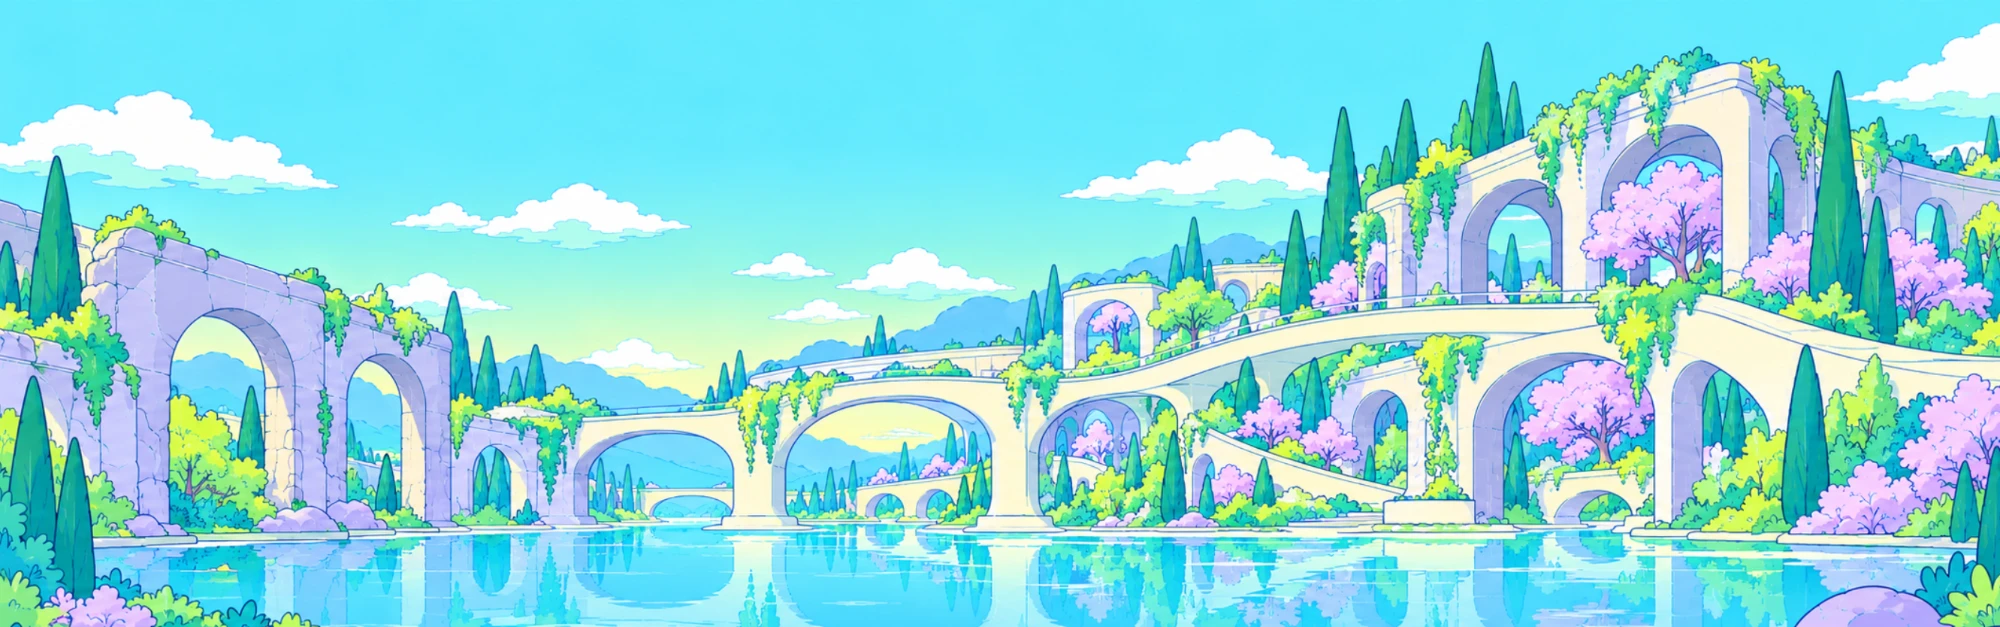
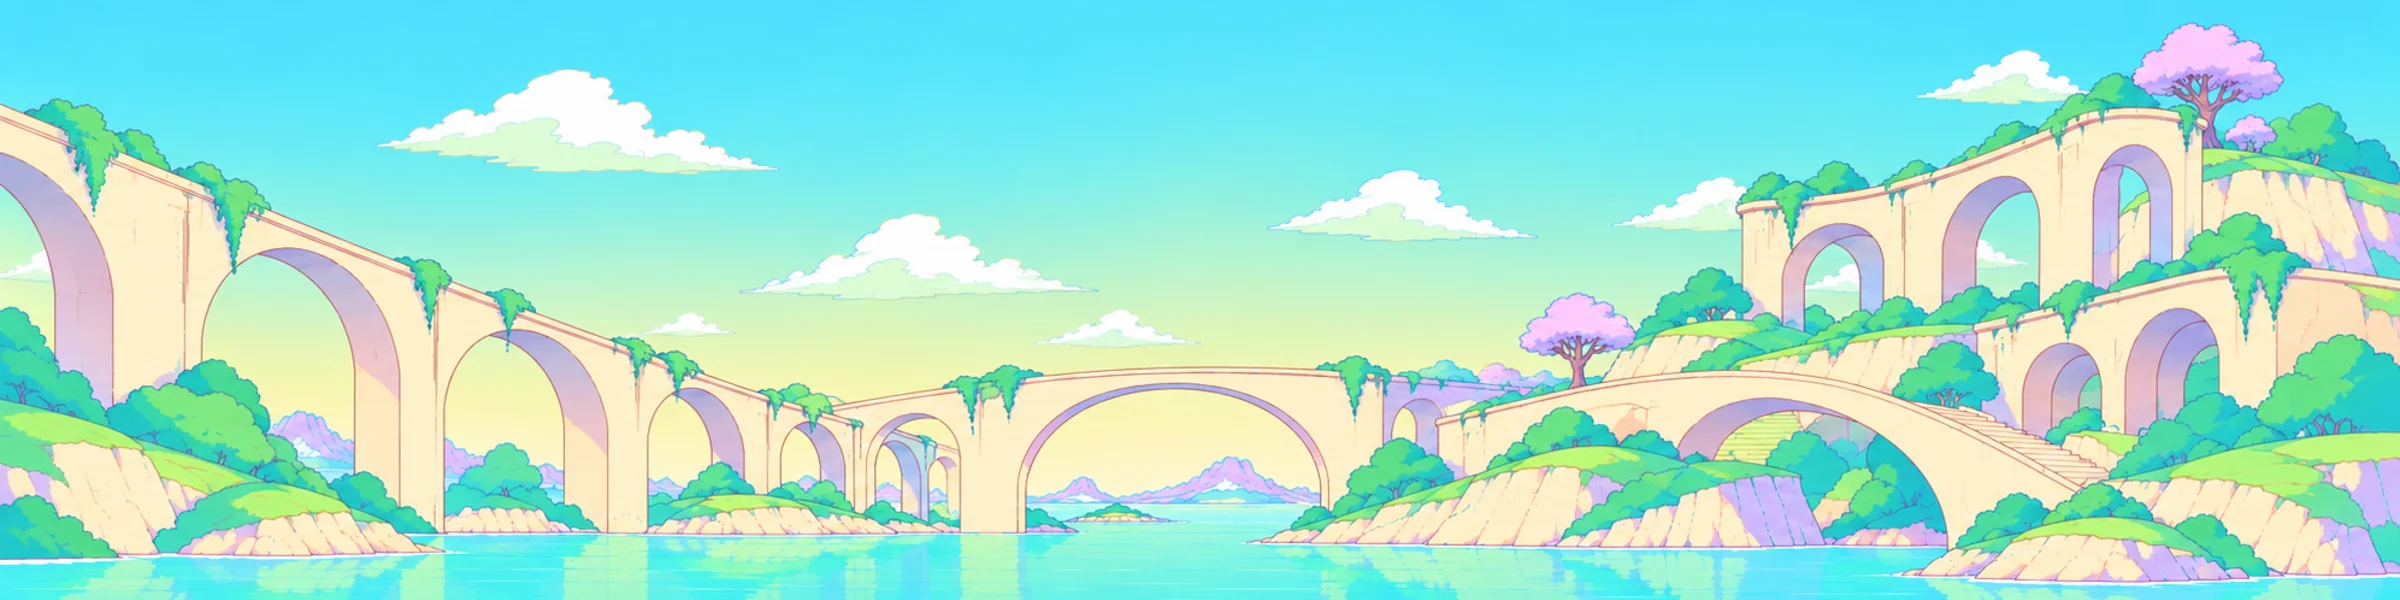
LOCAL: new contact-band background (arch bridges 2400x600)

diff --git a/site/company.html b/site/company.html
@@ -19,7 +19,7 @@
 <link rel="preconnect" href="https://fonts.googleapis.com">
 <link rel="preconnect" href="https://fonts.gstatic.com" crossorigin>
 <link rel="stylesheet" href="https://fonts.googleapis.com/css2?family=Noto+Sans+JP:wght@400;500&amp;family=Noto+Serif+JP:wght@500;600&amp;display=swap">
-<link rel="stylesheet" href="styles.css?v=1792830192">
+<link rel="stylesheet" href="styles.css?v=1792830557">
 <script>document.documentElement.classList.add('js')</script>
 
 </head>
@@ -52,7 +52,7 @@
 <div class="info-wrap reveal"><img src="images/photo_sofa.webp" alt="大きな窓のあるクリニックの待合スペース" loading="lazy" width="1536" height="1024"><dl class="info-table"><div><dt>法人名</dt><dd>一般社団法人 CELLACT</dd></div><div><dt>住所</dt><dd>〒104-0061 東京都中央区銀座6-6-5<br>HULIC &amp; New GINZA NAMIKI6 11F</dd></div><div><dt>TEL</dt><dd><a href="tel:0332890202">03-3289-0202</a></dd></div><div><dt>FAX</dt><dd>03-3289-0022</dd></div><div><dt>事業内容</dt><dd>再生医療クリニックの運営</dd></div><div><dt>クリニックHP</dt><dd><a href="https://cellact.jp/" target="_blank" rel="noopener noreferrer">https://cellact.jp/</a></dd></div><div><dt>代表理事</dt><dd>藤原彰子</dd></div></dl></div>
 <div class="map reveal"><iframe title="所在地の地図" src="https://www.google.com/maps?q=%E9%8A%80%E5%BA%A76-6-5%20HULIC%20%26%20New%20GINZA%20NAMIKI6%2011F&output=embed" loading="lazy" referrerpolicy="no-referrer-when-downgrade" allowfullscreen></iframe></div>
 </div></section><section class="section cta under">
-<div class="cta-bg" aria-hidden="true"><img src="images/band_arches.webp" alt="" loading="lazy"></div>
+<div class="cta-bg" aria-hidden="true"><img src="images/band_arches.webp?v=2" alt="" loading="lazy"></div>
 <div class="container reveal">
 <p class="eyebrow" style="color:#fff;opacity:.85">CONTACT</p>
 <h2 class="section-title">まずはお気軽にご相談ください</h2>
@@ -74,6 +74,6 @@
 <div class="copy"><span>&copy; 2026 一般社団法人 CELLACT. All rights reserved.</span></div>
 </div>
 </footer>
-<script src="script.js?v=1792830192" defer></script>
+<script src="script.js?v=1792830557" defer></script>
 </body>
 </html>

diff --git a/site/index.html b/site/index.html
@@ -19,7 +19,7 @@
 <link rel="preconnect" href="https://fonts.googleapis.com">
 <link rel="preconnect" href="https://fonts.gstatic.com" crossorigin>
 <link rel="stylesheet" href="https://fonts.googleapis.com/css2?family=Noto+Sans+JP:wght@400;500&amp;family=Noto+Serif+JP:wght@500;600&amp;display=swap">
-<link rel="stylesheet" href="styles.css?v=1792830192">
+<link rel="stylesheet" href="styles.css?v=1792830557">
 <script>document.documentElement.classList.add('js')</script>
 <script type="application/ld+json">{"@context":"https://schema.org","@type":"Organization","name":"一般社団法人 CELLACT","url":"https://n2cellact.or.jp/","logo":"https://n2cellact.or.jp/images/cellact_logo.png?v=151","telephone":"+81-3-3289-0202","email":"info@cellact.org","address":{"@type":"PostalAddress","postalCode":"104-0061","addressRegion":"東京都","addressLocality":"中央区","streetAddress":"銀座6-6-5 HULIC & New GINZA NAMIKI6 11F","addressCountry":"JP"}}</script>
 </head>
@@ -72,7 +72,7 @@
 </div></section>
 
 <section class="section cta under">
-<div class="cta-bg" aria-hidden="true"><img src="images/band_arches.webp" alt="" loading="lazy"></div>
+<div class="cta-bg" aria-hidden="true"><img src="images/band_arches.webp?v=2" alt="" loading="lazy"></div>
 <div class="container reveal">
 <p class="eyebrow" style="color:#fff;opacity:.85">CONTACT</p>
 <h2 class="section-title">まずはお気軽にご相談ください</h2>
@@ -96,6 +96,6 @@
 <div class="copy"><span>&copy; 2026 一般社団法人 CELLACT. All rights reserved.</span></div>
 </div>
 </footer>
-<script src="script.js?v=1792830192" defer></script>
+<script src="script.js?v=1792830557" defer></script>
 </body>
 </html>

diff --git a/site/business.html b/site/business.html
@@ -19,7 +19,7 @@
 <link rel="preconnect" href="https://fonts.googleapis.com">
 <link rel="preconnect" href="https://fonts.gstatic.com" crossorigin>
 <link rel="stylesheet" href="https://fonts.googleapis.com/css2?family=Noto+Sans+JP:wght@400;500&amp;family=Noto+Serif+JP:wght@500;600&amp;display=swap">
-<link rel="stylesheet" href="styles.css?v=1792830192">
+<link rel="stylesheet" href="styles.css?v=1792830557">
 <script>document.documentElement.classList.add('js')</script>
 
 </head>
@@ -48,7 +48,7 @@
 <p class="eyebrow">FOR PATIENTS</p><h2 class="section-title" style="font-size:1.4rem">治療を検討されている方へ</h2>
 <p>治療の内容やご予約については、クリニックの公式サイトをご覧ください。</p>
 <a class="btn btn-teal" href="https://cellact.jp/" target="_blank" rel="noopener noreferrer">クリニック公式サイトへ <span class="arrow" aria-hidden="true">→</span></a></div></div></section><section class="section cta under">
-<div class="cta-bg" aria-hidden="true"><img src="images/band_arches.webp" alt="" loading="lazy"></div>
+<div class="cta-bg" aria-hidden="true"><img src="images/band_arches.webp?v=2" alt="" loading="lazy"></div>
 <div class="container reveal">
 <p class="eyebrow" style="color:#fff;opacity:.85">CONTACT</p>
 <h2 class="section-title">事業に関するお問い合わせ</h2>
@@ -70,6 +70,6 @@
 <div class="copy"><span>&copy; 2026 一般社団法人 CELLACT. All rights reserved.</span></div>
 </div>
 </footer>
-<script src="script.js?v=1792830192" defer></script>
+<script src="script.js?v=1792830557" defer></script>
 </body>
 </html>

diff --git a/site/404.html b/site/404.html
@@ -19,7 +19,7 @@
 <link rel="preconnect" href="https://fonts.googleapis.com">
 <link rel="preconnect" href="https://fonts.gstatic.com" crossorigin>
 <link rel="stylesheet" href="https://fonts.googleapis.com/css2?family=Noto+Sans+JP:wght@400;500&amp;family=Noto+Serif+JP:wght@500;600&amp;display=swap">
-<link rel="stylesheet" href="styles.css?v=1792830192">
+<link rel="stylesheet" href="styles.css?v=1792830557">
 <script>document.documentElement.classList.add('js')</script>
 
 </head>
@@ -47,6 +47,6 @@
 <div class="copy"><span>&copy; 2026 一般社団法人 CELLACT. All rights reserved.</span></div>
 </div>
 </footer>
-<script src="script.js?v=1792830192" defer></script>
+<script src="script.js?v=1792830557" defer></script>
 </body>
 </html>

diff --git a/site/contact_thanks.html b/site/contact_thanks.html
@@ -19,7 +19,7 @@
 <link rel="preconnect" href="https://fonts.googleapis.com">
 <link rel="preconnect" href="https://fonts.gstatic.com" crossorigin>
 <link rel="stylesheet" href="https://fonts.googleapis.com/css2?family=Noto+Sans+JP:wght@400;500&amp;family=Noto+Serif+JP:wght@500;600&amp;display=swap">
-<link rel="stylesheet" href="styles.css?v=1792830192">
+<link rel="stylesheet" href="styles.css?v=1792830557">
 <script>document.documentElement.classList.add('js')</script>
 
 </head>
@@ -54,6 +54,6 @@
 <div class="copy"><span>&copy; 2026 一般社団法人 CELLACT. All rights reserved.</span></div>
 </div>
 </footer>
-<script src="script.js?v=1792830192" defer></script>
+<script src="script.js?v=1792830557" defer></script>
 </body>
 </html>

diff --git a/site/news-20270101-rename.html b/site/news-20270101-rename.html
@@ -19,7 +19,7 @@
 <link rel="preconnect" href="https://fonts.googleapis.com">
 <link rel="preconnect" href="https://fonts.gstatic.com" crossorigin>
 <link rel="stylesheet" href="https://fonts.googleapis.com/css2?family=Noto+Sans+JP:wght@400;500&amp;family=Noto+Serif+JP:wght@500;600&amp;display=swap">
-<link rel="stylesheet" href="styles.css?v=1792830192">
+<link rel="stylesheet" href="styles.css?v=1792830557">
 <script>document.documentElement.classList.add('js')</script>
 
 </head>
@@ -58,6 +58,6 @@
 <div class="copy"><span>&copy; 2026 一般社団法人 CELLACT. All rights reserved.</span></div>
 </div>
 </footer>
-<script src="script.js?v=1792830192" defer></script>
+<script src="script.js?v=1792830557" defer></script>
 </body>
 </html>

diff --git a/site/news-20270101-renewal.html b/site/news-20270101-renewal.html
@@ -19,7 +19,7 @@
 <link rel="preconnect" href="https://fonts.googleapis.com">
 <link rel="preconnect" href="https://fonts.gstatic.com" crossorigin>
 <link rel="stylesheet" href="https://fonts.googleapis.com/css2?family=Noto+Sans+JP:wght@400;500&amp;family=Noto+Serif+JP:wght@500;600&amp;display=swap">
-<link rel="stylesheet" href="styles.css?v=1792830192">
+<link rel="stylesheet" href="styles.css?v=1792830557">
 <script>document.documentElement.classList.add('js')</script>
 
 </head>
@@ -57,6 +57,6 @@
 <div class="copy"><span>&copy; 2026 一般社団法人 CELLACT. All rights reserved.</span></div>
 </div>
 </footer>
-<script src="script.js?v=1792830192" defer></script>
+<script src="script.js?v=1792830557" defer></script>
 </body>
 </html>

diff --git a/site/news-20270110-recruit.html b/site/news-20270110-recruit.html
@@ -19,7 +19,7 @@
 <link rel="preconnect" href="https://fonts.googleapis.com">
 <link rel="preconnect" href="https://fonts.gstatic.com" crossorigin>
 <link rel="stylesheet" href="https://fonts.googleapis.com/css2?family=Noto+Sans+JP:wght@400;500&amp;family=Noto+Serif+JP:wght@500;600&amp;display=swap">
-<link rel="stylesheet" href="styles.css?v=1792830192">
+<link rel="stylesheet" href="styles.css?v=1792830557">
 <script>document.documentElement.classList.add('js')</script>
 
 </head>
@@ -57,6 +57,6 @@
 <div class="copy"><span>&copy; 2026 一般社団法人 CELLACT. All rights reserved.</span></div>
 </div>
 </footer>
-<script src="script.js?v=1792830192" defer></script>
+<script src="script.js?v=1792830557" defer></script>
 </body>
 </html>

diff --git a/site/news-archive.html b/site/news-archive.html
@@ -19,7 +19,7 @@
 <link rel="preconnect" href="https://fonts.googleapis.com">
 <link rel="preconnect" href="https://fonts.gstatic.com" crossorigin>
 <link rel="stylesheet" href="https://fonts.googleapis.com/css2?family=Noto+Sans+JP:wght@400;500&amp;family=Noto+Serif+JP:wght@500;600&amp;display=swap">
-<link rel="stylesheet" href="styles.css?v=1792830192">
+<link rel="stylesheet" href="styles.css?v=1792830557">
 <script>document.documentElement.classList.add('js')</script>
 
 </head>
@@ -49,6 +49,6 @@
 <div class="copy"><span>&copy; 2026 一般社団法人 CELLACT. All rights reserved.</span></div>
 </div>
 </footer>
-<script src="script.js?v=1792830192" defer></script>
+<script src="script.js?v=1792830557" defer></script>
 </body>
 </html>

diff --git a/site/privacy.html b/site/privacy.html
@@ -19,7 +19,7 @@
 <link rel="preconnect" href="https://fonts.googleapis.com">
 <link rel="preconnect" href="https://fonts.gstatic.com" crossorigin>
 <link rel="stylesheet" href="https://fonts.googleapis.com/css2?family=Noto+Sans+JP:wght@400;500&amp;family=Noto+Serif+JP:wght@500;600&amp;display=swap">
-<link rel="stylesheet" href="styles.css?v=1792830192">
+<link rel="stylesheet" href="styles.css?v=1792830557">
 <script>document.documentElement.classList.add('js')</script>
 
 </head>
@@ -71,6 +71,6 @@
 <div class="copy"><span>&copy; 2026 一般社団法人 CELLACT. All rights reserved.</span></div>
 </div>
 </footer>
-<script src="script.js?v=1792830192" defer></script>
+<script src="script.js?v=1792830557" defer></script>
 </body>
 </html>

diff --git a/site/recruit.html b/site/recruit.html
@@ -19,7 +19,7 @@
 <link rel="preconnect" href="https://fonts.googleapis.com">
 <link rel="preconnect" href="https://fonts.gstatic.com" crossorigin>
 <link rel="stylesheet" href="https://fonts.googleapis.com/css2?family=Noto+Sans+JP:wght@400;500&amp;family=Noto+Serif+JP:wght@500;600&amp;display=swap">
-<link rel="stylesheet" href="styles.css?v=1792830192">
+<link rel="stylesheet" href="styles.css?v=1792830557">
 <script>document.documentElement.classList.add('js')</script>
 
 </head>
@@ -55,6 +55,6 @@
 <div class="copy"><span>&copy; 2026 一般社団法人 CELLACT. All rights reserved.</span></div>
 </div>
 </footer>
-<script src="script.js?v=1792830192" defer></script>
+<script src="script.js?v=1792830557" defer></script>
 </body>
 </html>

diff --git a/site/contact.php b/site/contact.php
@@ -40,7 +40,7 @@ $purpose = (string)($old['purpose'] ?? ($_GET['purpose'] ?? ''));
 <link rel="preconnect" href="https://fonts.googleapis.com">
 <link rel="preconnect" href="https://fonts.gstatic.com" crossorigin>
 <link rel="stylesheet" href="https://fonts.googleapis.com/css2?family=Noto+Sans+JP:wght@400;500&amp;family=Noto+Serif+JP:wght@500;600&amp;display=swap">
-<link rel="stylesheet" href="styles.css?v=1792830192">
+<link rel="stylesheet" href="styles.css?v=1792830557">
 <script>document.documentElement.classList.add('js')</script>
 
 </head>
@@ -89,6 +89,6 @@ $purpose = (string)($old['purpose'] ?? ($_GET['purpose'] ?? ''));
 <div class="copy"><span>&copy; 2026 一般社団法人 CELLACT. All rights reserved.</span></div>
 </div>
 </footer>
-<script src="script.js?v=1792830192" defer></script>
+<script src="script.js?v=1792830557" defer></script>
 </body>
 </html>
